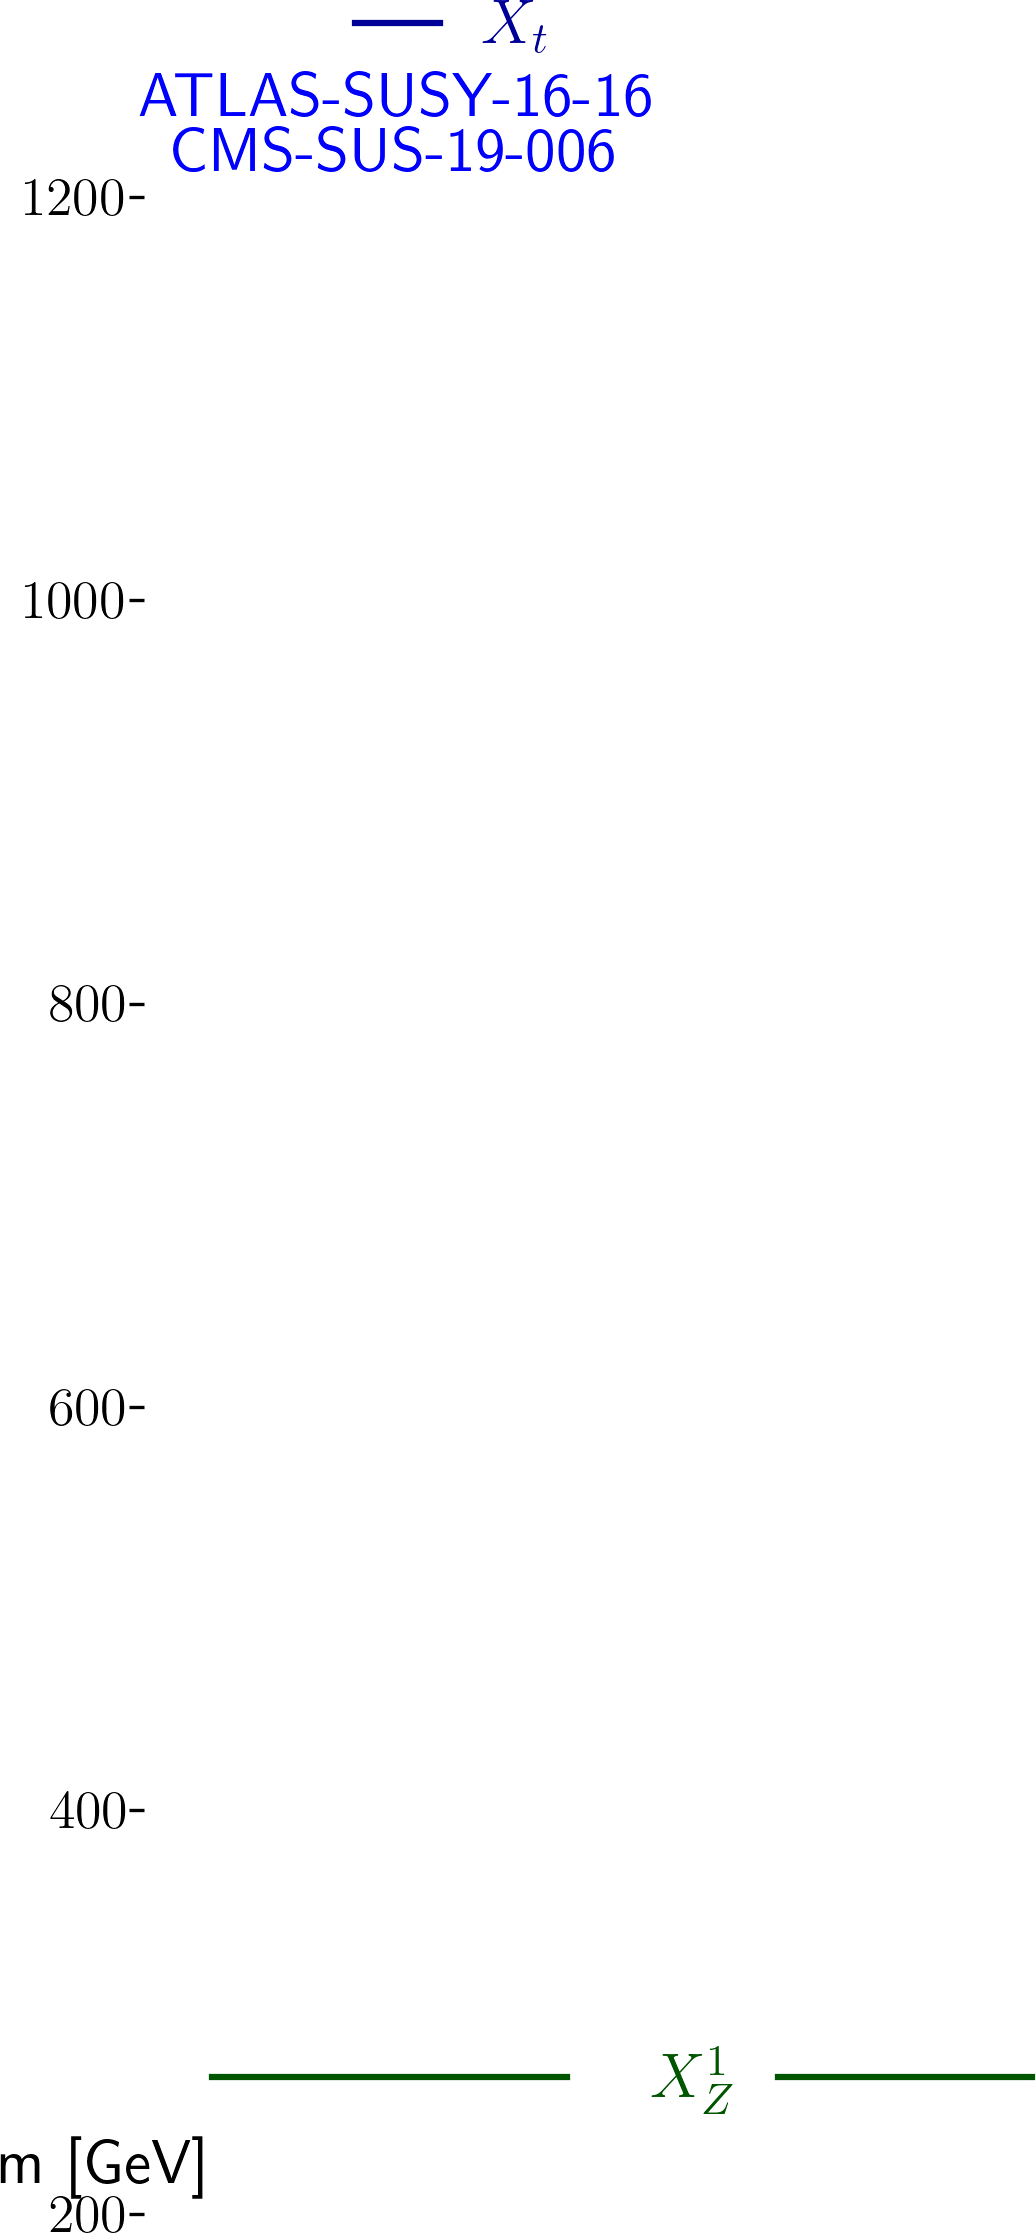
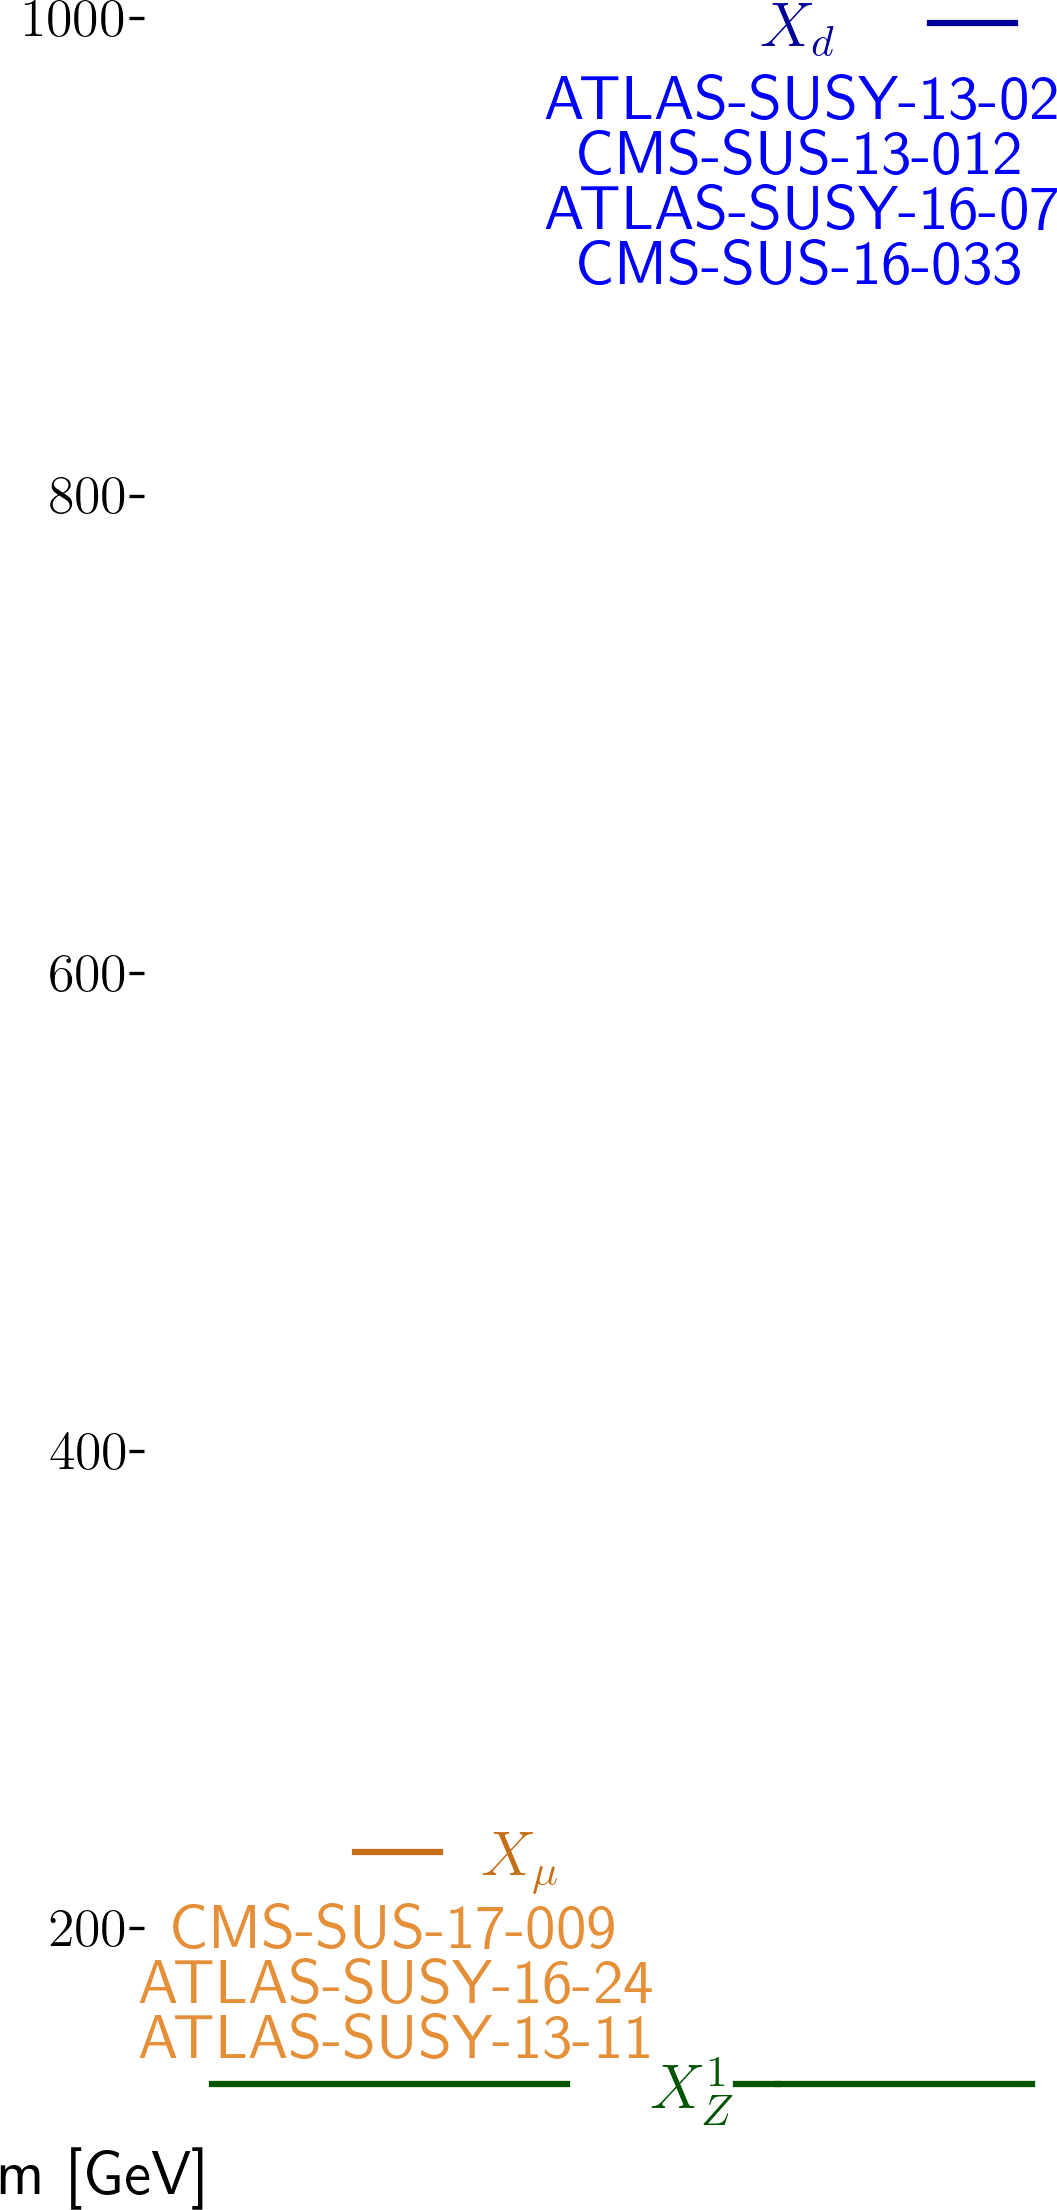
automated update by plotHiscore.py to /scratch-cbe/users/wolfgan.waltenberger/git/smodels.github.io/protomodels

diff --git a/protomodels/2020_PioneerStudy/closure_sampled5/index.html b/protomodels/2020_PioneerStudy/closure_sampled5/index.html
@@ -1,27 +1,32 @@
 <html>
 <body>
 <center>
-<table><td><h1>Current best protomodel: <i>K</i>=2.01</h1><td><img height=60px src=https://smodels.github.io/pics/banner.png></table>
+<table><td><h1>Current best protomodel: <i>K</i>=6.46</h1><td><img height=60px src=https://smodels.github.io/pics/banner.png></table>
 </center>
-<b><a href=./hiscore.slha>ProtoModel</a> <a href=./pmodel.py>(dict)</a> produced with <a href=https://smodels.github.io/docs/Validation124scaled5>database v1.2.4scaled5</a>, combination strategy <a href=./matrix_aggressive.png>aggressive</a> in walker 28 step 29.</b> <i>K</i> plots for: <a href=./M1000022.png?15050619>X<sub>Z</sub><sup>1</sup></a>, <a href=./M1000006.png?15050619>X<sub>t</sub></a>. HPD plots for: <a href=./llhd1000006.png?15050619>X<sub>t</sub></a>. SSM plots for: <a href=./ssm_-1000006_1000006.png?15050619>(x&#772;<sub>t</sub>,X<sub>t</sub>)</a><br>
+<b><a href=./hiscore.slha>ProtoModel</a> <a href=./pmodel.py>(dict)</a> produced with <a href=https://smodels.github.io/docs/Validation124scaled5>database v1.2.4scaled5</a>, combination strategy <a href=./matrix_aggressive.png>aggressive</a> in walker 30 step 592.</b> <i>K</i> plots for: <a href=./M1000022.png?15310935>X<sub>Z</sub><sup>1</sup></a>, <a href=./M1000001.png?15310935>X<sub>d</sub></a>, <a href=./M1000013.png?15310935>X<sub>&mu;</sub></a>. HPD plots for: <a href=./llhd1000001.png?15310935>X<sub>d</sub></a>, <a href=./llhd1000013.png?15310935>X<sub>&mu;</sub></a>. SSM plots for: <br>
 <table width=80%>
 <tr><td>
-<br><b>5 predictions available. Highest r values are:</b><br><ul>
-<li><a href=http://cms-results.web.cern.ch/cms-results/public-results/publications/SUS-16-049/index.html>CMS-SUS-16-049</a>:T2tt r=0.55, r<sub>exp</sub>=N/A<br>
-<li><a href=https://atlas.web.cern.ch/Atlas/GROUPS/PHYSICS/PAPERS/SUSY-2016-15/>ATLAS-SUSY-2016-15</a>:T2tt r=0.45, r<sub>exp</sub>=N/A<br>
-<li><a href=http://cms-results.web.cern.ch/cms-results/public-results/publications/SUS-19-006/index.html>CMS-SUS-19-006</a>:T2tt r=0.38, r<sub>exp</sub>=N/A<br>
-<li><a href=https://atlas.web.cern.ch/Atlas/GROUPS/PHYSICS/PAPERS/SUSY-2016-16/>ATLAS-SUSY-2016-16</a>:T2tt r=0.35, r<sub>exp</sub>=N/A<br>
-<li><a href=http://cms-results.web.cern.ch/cms-results/public-results/publications/SUS-16-033/index.html>CMS-SUS-16-033</a>:T2tt r=0.24, r<sub>exp</sub>=N/A<br>
+<br><b>21 predictions available. Highest r values are:</b><br><ul>
+<li><a href=https://atlas.web.cern.ch/Atlas/GROUPS/PHYSICS/PAPERS/SUSY-2016-07/>ATLAS-SUSY-2016-07</a>:T2 r=0.85, r<sub>exp</sub>=N/A<br>
+<li><a href=http://cms-results.web.cern.ch/cms-results/public-results/publications/SUS-16-033/index.html>CMS-SUS-16-033</a>:T2 r=0.50, r<sub>exp</sub>=N/A<br>
+<li><a href=http://cms-results.web.cern.ch/cms-results/public-results/publications/SUS-19-006/index.html>CMS-SUS-19-006</a>:T2 r=0.40, r<sub>exp</sub>=N/A<br>
+<li><a href=https://cms-results.web.cern.ch/cms-results/public-results/publications/SUS-17-009/>CMS-SUS-17-009</a>:TSmuSmu r=0.39, r<sub>exp</sub>=N/A<br>
+<li><a href=https://atlas.web.cern.ch/Atlas/GROUPS/PHYSICS/PAPERS/SUSY-2016-24/>ATLAS-SUSY-2016-24</a>:TSlepSlep r=0.37, r<sub>exp</sub>=N/A<br>
 </ul>
 <td><br><b>K values without analyses: (contribution)</b><br>
 <ul>
-<li> <a href=http://cms-results.web.cern.ch/cms-results/public-results/publications/SUS-19-006/index.html>CMS-SUS-19-006</a>: -2.24 (50%)
-<li> <a href=https://atlas.web.cern.ch/Atlas/GROUPS/PHYSICS/PAPERS/SUSY-2016-16/>ATLAS-SUSY-2016-16</a>: -2.25 (50%)
-<td><img width=600px src=./texdoc.png?1608050619>
-<br><font size=-1>Last updated: Tue Dec 15 17:43:39 2020</font>
+<li> <a href=https://atlas.web.cern.ch/Atlas/GROUPS/PHYSICS/PAPERS/SUSY-2013-02/>ATLAS-SUSY-2013-02</a>: -1.02 (13%)
+<li> <a href=https://atlas.web.cern.ch/Atlas/GROUPS/PHYSICS/PAPERS/SUSY-2013-11/>ATLAS-SUSY-2013-11</a>: -1.23 (14%)
+<li> <a href=http://cms-results.web.cern.ch/cms-results/public-results/publications/SUS-16-033/index.html>CMS-SUS-16-033</a>: -1.23 (14%)
+<li> <a href=https://twiki.cern.ch/twiki/bin/view/CMSPublic/PhysicsResultsSUS13012>CMS-SUS-13-012</a>: -1.23 (14%)
+<li> <a href=https://cms-results.web.cern.ch/cms-results/public-results/publications/SUS-17-009/>CMS-SUS-17-009</a>: -1.23 (14%)
+<li> <a href=https://atlas.web.cern.ch/Atlas/GROUPS/PHYSICS/PAPERS/SUSY-2016-24/>ATLAS-SUSY-2016-24</a>: -2.05 (15%)
+<li> <a href=https://atlas.web.cern.ch/Atlas/GROUPS/PHYSICS/PAPERS/SUSY-2016-07/>ATLAS-SUSY-2016-07</a>: -2.68 (16%)
+<td><img width=600px src=./texdoc.png?1608310935>
+<br><font size=-1>Last updated: Fri Dec 18 18:02:15 2020</font>
 </table><table style="width:80%">
-<td width=45%><img height=580px src=./ruler.png?1608050619><td width=55%><img height=380px src=./decays.png?1608050619>
-<font size=-3><iframe type="text/html" height="220px" width="100%s" frameborder="0" src="./rawnumbers.html?1608050619"></iframe></font>
+<td width=45%><img height=580px src=./ruler.png?1608310935><td width=55%><img height=380px src=./decays.png?1608310935>
+<font size=-3><iframe type="text/html" height="220px" width="100%s" frameborder="0" src="./rawnumbers.html?1608310935"></iframe></font>
 </table>
 </body>
 </html>

diff --git a/protomodels/2020_PioneerStudy/closure_sampled5/rawnumbers.html b/protomodels/2020_PioneerStudy/closure_sampled5/rawnumbers.html
@@ -1,6 +1,11 @@
 <table>
 <tr><th>Analysis Name</th><th>Type</th><th>Dataset</th><th>Topos</th><th>Observed</th><th>Expected</th><th>Approx &sigma;</th><th>Particles</th><th>Signal</th>
 </tr>
-<tr><td><a href=https://atlas.web.cern.ch/Atlas/GROUPS/PHYSICS/PAPERS/SUSY-2016-16/>ATLAS-SUSY-2016-16</a></td><td>em</td> <td>tN_high</td><td>T2tt</td><td>4</td><td>3.8 +/- 1</td><td style="text-align:right">0.1 &sigma;</td><td style="text-align:right">X<sub>t</sub></td><td style="text-align:right">2</td></tr>
-<tr><td><a href=http://cms-results.web.cern.ch/cms-results/public-results/publications/SUS-19-006/index.html>CMS-SUS-19-006</a></td><td>ul</td> <td>-</td><td>T2tt</td><td> 4.4 fb </td><td> 1.8 fb</td><td style="text-align:right">2.9 &sigma;</td><td style="text-align:right">X<sub>t</sub></td><td style="text-align:right">2.62 fb</td></tr>
+<tr><td><a href=https://atlas.web.cern.ch/Atlas/GROUPS/PHYSICS/PAPERS/SUSY-2013-02/>ATLAS-SUSY-2013-02</a></td><td>em</td> <td>SR6jtp</td><td>T2</td><td>1</td><td>4.9 +/- 1.6</td><td style="text-align:right">-1.4 &sigma;</td><td style="text-align:right">X<sub>d</sub></td><td style="text-align:right">1</td></tr>
+<tr><td><a href=https://atlas.web.cern.ch/Atlas/GROUPS/PHYSICS/PAPERS/SUSY-2013-11/>ATLAS-SUSY-2013-11</a></td><td>em</td> <td>Zjets</td><td>TSlepSlep</td><td>0</td><td>1.4 +/- 0.6</td><td style="text-align:right">-1.1 &sigma;</td><td style="text-align:right">X<sub>&mu;</sub></td><td style="text-align:right">-</td></tr>
+<tr><td><a href=https://atlas.web.cern.ch/Atlas/GROUPS/PHYSICS/PAPERS/SUSY-2016-07/>ATLAS-SUSY-2016-07</a></td><td>em</td> <td>2j_Meff_1200</td><td>T2</td><td>573</td><td>526 +/- 31</td><td style="text-align:right">1.2 &sigma;</td><td style="text-align:right">X<sub>d</sub></td><td style="text-align:right">38</td></tr>
+<tr><td><a href=https://atlas.web.cern.ch/Atlas/GROUPS/PHYSICS/PAPERS/SUSY-2016-24/>ATLAS-SUSY-2016-24</a></td><td>em</td> <td>SR2-SF-loose</td><td>TSmuSmu</td><td>156</td><td>133 +/- 22</td><td style="text-align:right">0.9 &sigma;</td><td style="text-align:right">X<sub>&mu;</sub></td><td style="text-align:right">-</td></tr>
+<tr><td><a href=https://twiki.cern.ch/twiki/bin/view/CMSPublic/PhysicsResultsSUS13012>CMS-SUS-13-012</a></td><td>ul</td> <td>-</td><td>T2</td><td> 8.8 fb </td><td> 6.1 fb</td><td style="text-align:right">0.9 &sigma;</td><td style="text-align:right">X<sub>d</sub></td><td style="text-align:right">2.66 fb</td></tr>
+<tr><td><a href=http://cms-results.web.cern.ch/cms-results/public-results/publications/SUS-16-033/index.html>CMS-SUS-16-033</a></td><td>ul</td> <td>-</td><td>T2</td><td> 33.8 fb </td><td> 9.8 fb</td><td style="text-align:right">4.8 &sigma;</td><td style="text-align:right">X<sub>d</sub></td><td style="text-align:right">23.95 fb</td></tr>
+<tr><td><a href=https://cms-results.web.cern.ch/cms-results/public-results/publications/SUS-17-009/>CMS-SUS-17-009</a></td><td>ul</td> <td>-</td><td>TSlepSlep</td><td> 21.4 fb </td><td> 13.6 fb</td><td style="text-align:right">1.1 &sigma;</td><td style="text-align:right">X<sub>&mu;</sub></td><td style="text-align:right">-</td></tr>
 </table>

diff --git a/protomodels/2020_PioneerStudy/closure_sampled5/pmodel.py b/protomodels/2020_PioneerStudy/closure_sampled5/pmodel.py
@@ -1,1 +1,1 @@
-{'masses': {1000022: 257.871, 1000006: 1276.182}, 'ssmultipliers': {(1000022, 1000022): 1.634, (1000006, 1000006): 1.634, (-1000006, 1000006): 1.634, (-1000006, -1000006): 1.634, (1000006, 1000022): 1.634, (-1000006, 1000022): 1.634}, 'decays': {1000022: {}, 1000006: {(1000022, 6): 1.0}}, 'timestamp': 'Tue Dec 15 17:43:34 2020', 'Z': 2.064, 'K': 2.009, 'walkerid': 28, 'step': 29, 'codever': '1.0', 'dbver': '1.2.4scaled5'}
+{'masses': {1000022: 124.738, 1000001: 988.016, 1000013: 221.86}, 'ssmultipliers': {(1000022, 1000022): 0.0, (1000001, 1000001): 1.113, (-1000001, 1000001): 1.798, (-1000001, -1000001): 2.195, (1000001, 1000022): 1.749, (-1000001, 1000022): 0.0, (1000013, 1000013): 1.756, (-1000013, 1000013): 1.756, (-1000013, -1000013): 1.756, (1000013, 1000022): 1.756, (-1000013, 1000022): 1.756, (1000001, 1000013): 1.618, (-1000013, 1000001): 1.508, (-1000001, 1000013): 1.618, (-1000013, -1000001): 1.618}, 'decays': {1000022: {}, 1000001: {(1000022, 1): 1.0}, 1000013: {(1000022, 13): 1.0}}, 'timestamp': 'Fri Dec 18 18:02:05 2020', 'Z': 3.124, 'K': 6.462, 'walkerid': 30, 'step': 592, 'codever': '1.0', 'dbver': '1.2.4scaled5'}
